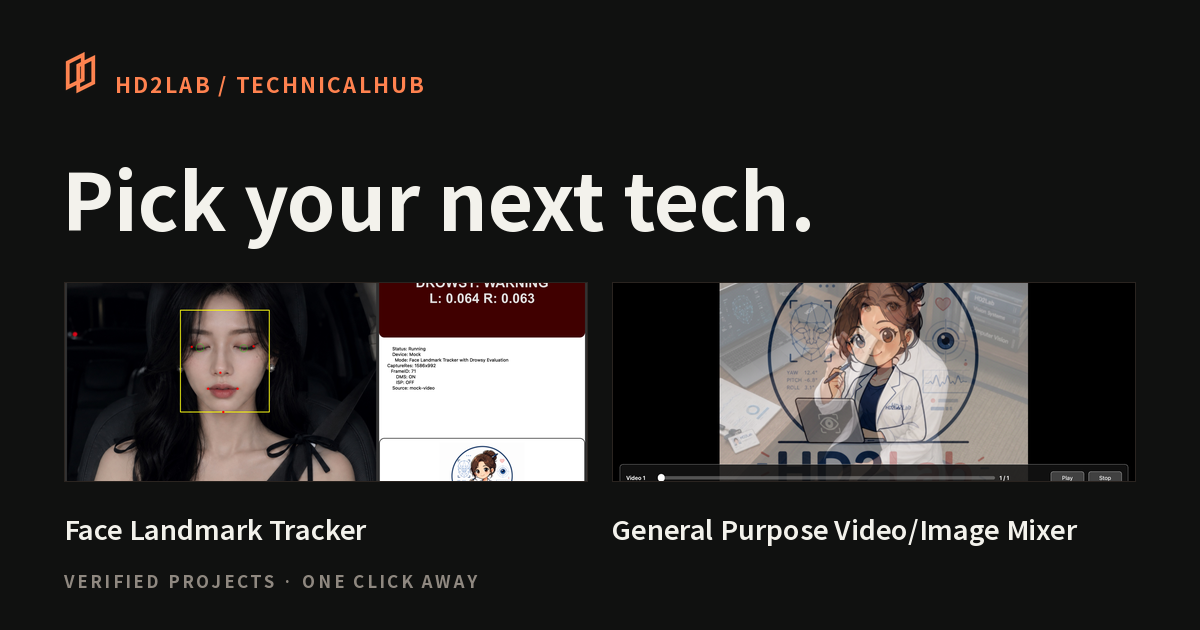
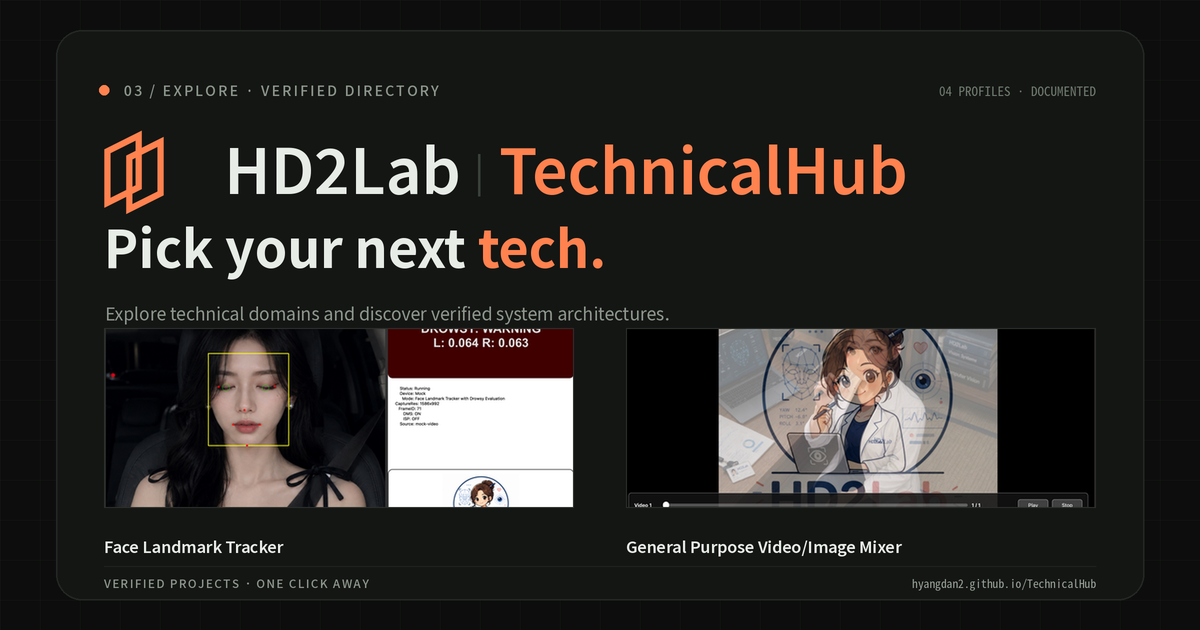
feat(brand): share.png를 HD2Lab 통일 규격으로 재생성 + OG 메타 보완 (#9)
좌상단 헤더를 PKPilot0001~0003과 동일 규격(100px 각진 듀얼 스큐 마크 + 62px 'HD2Lab | TechnicalHub', baseline 194)으로 맞추고 Face Landmark Tracker·Video/Image Mixer 쇼케이스는 유지했다. og:image:secure_url/type/alt를 추가하고 og:image·twitter:image URL에 ?v=20261114 캐시 버스터를 반영했다.

diff --git a/index.html b/index.html
@@ -12,13 +12,16 @@
     <meta property="og:title" content="TechnicalHub — Verified Project Directory">
     <meta property="og:description" content="Explore technical domains and discover verified system architectures.">
     <meta property="og:url" content="https://hyangdan2.github.io/TechnicalHub/">
-    <meta property="og:image" content="https://hyangdan2.github.io/TechnicalHub/assets/branding/share.png">
+    <meta property="og:image" content="https://hyangdan2.github.io/TechnicalHub/assets/branding/share.png?v=20261114">
+    <meta property="og:image:secure_url" content="https://hyangdan2.github.io/TechnicalHub/assets/branding/share.png?v=20261114">
+    <meta property="og:image:type" content="image/png">
     <meta property="og:image:width" content="1200">
     <meta property="og:image:height" content="630">
+    <meta property="og:image:alt" content="HD2Lab | TechnicalHub — verified project directory.">
     <meta name="twitter:card" content="summary_large_image">
     <meta name="twitter:title" content="TechnicalHub — Verified Project Directory">
     <meta name="twitter:description" content="Explore technical domains and discover verified system architectures.">
-    <meta name="twitter:image" content="https://hyangdan2.github.io/TechnicalHub/assets/branding/share.png">
+    <meta name="twitter:image" content="https://hyangdan2.github.io/TechnicalHub/assets/branding/share.png?v=20261114">
     <link rel="icon" href="./assets/branding/favicon.svg" type="image/svg+xml">
     <link rel="icon" href="./assets/branding/favicon-32x32.png" sizes="32x32" type="image/png">
     <link rel="apple-touch-icon" href="./assets/branding/apple-touch-icon.png" sizes="180x180">
